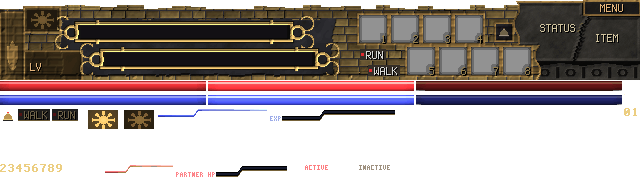
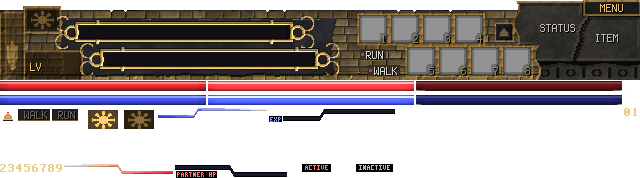
Panel art: partner gauge mirrors EXP, thicker rails, straight top edge
The companion's gauge is now the EXP rail mirrored, high on the left with
its name under it, as the original's is. Both rails are 3 pixels thick.
The wall's top is a straight course of blocks with a small notch where
two meet.

Claude-Session: https://claude.ai/code/session_017w2Q2edosxW8nd4dfcmeXc

diff --git a/tools/art/panel.py b/tools/art/panel.py
@@ -193,15 +193,14 @@ def body():
     p = Panel(41)
     wall(p)
     yy, xx = ui.yy, ui.xx
-    # The top of the wall: uneven block tops between 404 and 409.
-    rng = np.random.default_rng(5)
-    top = np.zeros(640)
-    x = 0
-    while x < 640:
-        bw = int(rng.integers(13, 21))
-        top[x:x + bw] = 8 + int(rng.integers(-3, 2))
-        x += bw
-    alpha = (yy >= top[None, :].repeat(80, 0)).astype(float)
+    # The top of the wall: a straight course of blocks from row 410, with
+    # a small notch where two blocks meet.
+    alpha = (yy >= 10).astype(float)
+    joints = np.where(p.height[13] < 0.5)[0]  # the mortar between the top course's blocks
+    for jx in joints:
+        for dx, depth in ((-1, 1), (0, 2), (1, 1)):
+            if 0 <= jx + dx < 640:
+                alpha[10:10 + depth, jx + dx] = 0
 
     # Smoke-dark stone behind the gauges, its edges ragged.
     ragged = 6 * p.noise(10, 2)
@@ -364,32 +363,36 @@ def tube(colour, kind):
 
 
 def rail_rows(fx, step, rising):
-    """The two rows of a stepped gauge's track at column fx of its frame:
+    """The three rows of a stepped gauge's track at column fx of its frame:
     low on one side of the step and high on the other, sloping between."""
     t = np.clip((fx - step) / 5, 0, 1)
     if not rising:
         t = 1 - t
-    top = int(round(9 - 6 * t))
-    return top, top + 1
+    top = int(round(9 - 7 * t))
+    return top, top + 1, top + 2
 
 
-def rail_frame(w, h, step, rising, gauge_x, label, tag_x, ink=(150, 200, 255, 255)):
+def rail_frame(w, h, step, rising, gauge_x, label, tag_x, ink=(150, 200, 255, 255), label_row=8):
     """A gauge's track: a dark channel in a black outline that steps up
-    (or down) once, with a lit inner edge, and its name on a small tag."""
+    (or down) once, and its name, beside the low part or under the high
+    part."""
     img = Image.new("RGBA", (w, h), (0, 0, 0, 0))
-    for fx in range(gauge_x - 1, w):
-        r0, r1 = rail_rows(fx, step, rising)
-        for fy in range(r0 - 1, r1 + 2):
+    for fx in range(gauge_x, w):
+        rows = rail_rows(fx, step, rising)
+        for fy in range(rows[0] - 1, rows[-1] + 2):
             if 0 <= fy < h:
                 img.putpixel((fx, fy), (0, 0, 0, 255))
-        for fy in (r0, r1):
+        for fy in rows:
             img.putpixel((fx, fy), (22, 26, 44, 255))
-        img.putpixel((fx, r1 + 2), (120, 100, 60, 255)) if r1 + 2 < h else None
+    # A black plate under the name, so it reads like part of the rail.
+    for fy in range(label_row - 1, min(h, label_row + 6)):
+        for fx in range(max(0, tag_x - 1), min(w, tag_x + 4 * len(label))):
+            img.putpixel((fx, fy), (0, 0, 0, 255))
     for k, ch in enumerate(label):
         for yy, row in enumerate(TINY[ch]):
             for xx, bit in enumerate(row):
                 if bit == "#":
-                    img.putpixel((tag_x + k * 4 + xx, 8 + yy), ink)
+                    img.putpixel((tag_x + k * 4 + xx, label_row + yy), ink)
     return img
 
 
@@ -397,10 +400,10 @@ def rail_gauge(w, h, offset, step, rising, colour, pale, start=0):
     """What fills a rail_frame's track, from `colour` to `pale` along it."""
     img = Image.new("RGBA", (w, h), (0, 0, 0, 0))
     for gx in range(max(0, start - offset[0]), w):
-        r0, r1 = rail_rows(gx + offset[0], step, rising)
-        t = gx / (w - 1) if rising else 1 - gx / (w - 1)
+        rows = rail_rows(gx + offset[0], step, rising)
+        t = gx / (w - 1)
         c = tuple(int(a + (b - a) * t) for a, b in zip(colour, pale))
-        for fy, shade in ((r0, 1.15), (r1, 0.8)):
+        for fy, shade in zip(rows, (1.15, 1.0, 0.75)):
             gy = fy - offset[1]
             if 0 <= gy < h:
                 img.putpixel((gx, gy), tuple(min(255, int(v * shade)) for v in c) + (255,))
@@ -428,8 +431,12 @@ def digit(n):
 
 
 def mode_label(word, colour):
+    """ACTIVE or INACTIVE over the companion's gauge, on a black plate."""
     img = Image.new("RGBA", (56, 8), (0, 0, 0, 0))
     x = (56 - len(word) * 4) // 2
+    for py in range(8):
+        for px in range(x - 3, x + len(word) * 4 + 2):
+            img.putpixel((px, py), (0, 0, 0, 255))
     for ch in word:
         for yy, row in enumerate(TINY[ch]):
             for xx, bit in enumerate(row):
@@ -451,16 +458,16 @@ def main():
         (panel.crop((0, 0, 640, 12)), 0, 400), (panel.crop((0, 12, 640, 80)), 0, 412),
         (mine(True), *MINE[:2]), (button(WALK, "WALK", False), *WALK[:2]), (button(RUN, "RUN", False), *RUN[:2]),
         (power("lit"), *POWER[:2]), (power("pressed"), *POWER[:2]),
-        (rail_gauge(109, 10, (15, 2), 50, True, (40, 80, 220), (200, 230, 255)), 530, 395),
-        (rail_frame(126, 14, 50, True, 14, "EXP", 1), 515, 393),
+        (rail_gauge(109, 10, (15, 2), 50, True, (40, 90, 220), (236, 244, 255), 15), 530, 395),
+        (rail_frame(126, 14, 50, True, 14, "EXP", 1, label_row=9), 515, 393),
         (piece_mask((572, 416, 68, 46), "item"), 572, 416), (piece_mask((583, 401, 57, 13), "menu"), 583, 401),
         (piece_mask((509, 408, 96, 54), "status"), 509, 408),
     ]
     parts += [(digit(n), 0, 0) for n in range(10)]
     # The companion's gauge: its name low on the left, the rail stepping
     # up beyond it; the exe fills it from the right (partner.cpp).
-    parts += [(rail_gauge(109, 10, (1, 2), 62, True, (220, 40, 40), (255, 190, 190), 42), 1, 397),
-              (rail_frame(112, 14, 62, True, 42, "PARTNER HP", 1, (255, 140, 150, 255)), 0, 395),
+    parts += [(rail_gauge(109, 10, (1, 2), 54, False, (250, 236, 236), (220, 50, 60)), 1, 397),
+              (rail_frame(112, 14, 54, False, 0, "PARTNER HP", 2, (255, 120, 120, 255)), 0, 395),
               (mode_label("ACTIVE", (255, 120, 120, 255)), 56, 392), (mode_label("INACTIVE", (170, 170, 170, 255)), 56, 392)]
     # One sheet: the panel's two pieces on top, the small parts in rows under them.
     width, x, y, row = 640, 0, 80, 0
